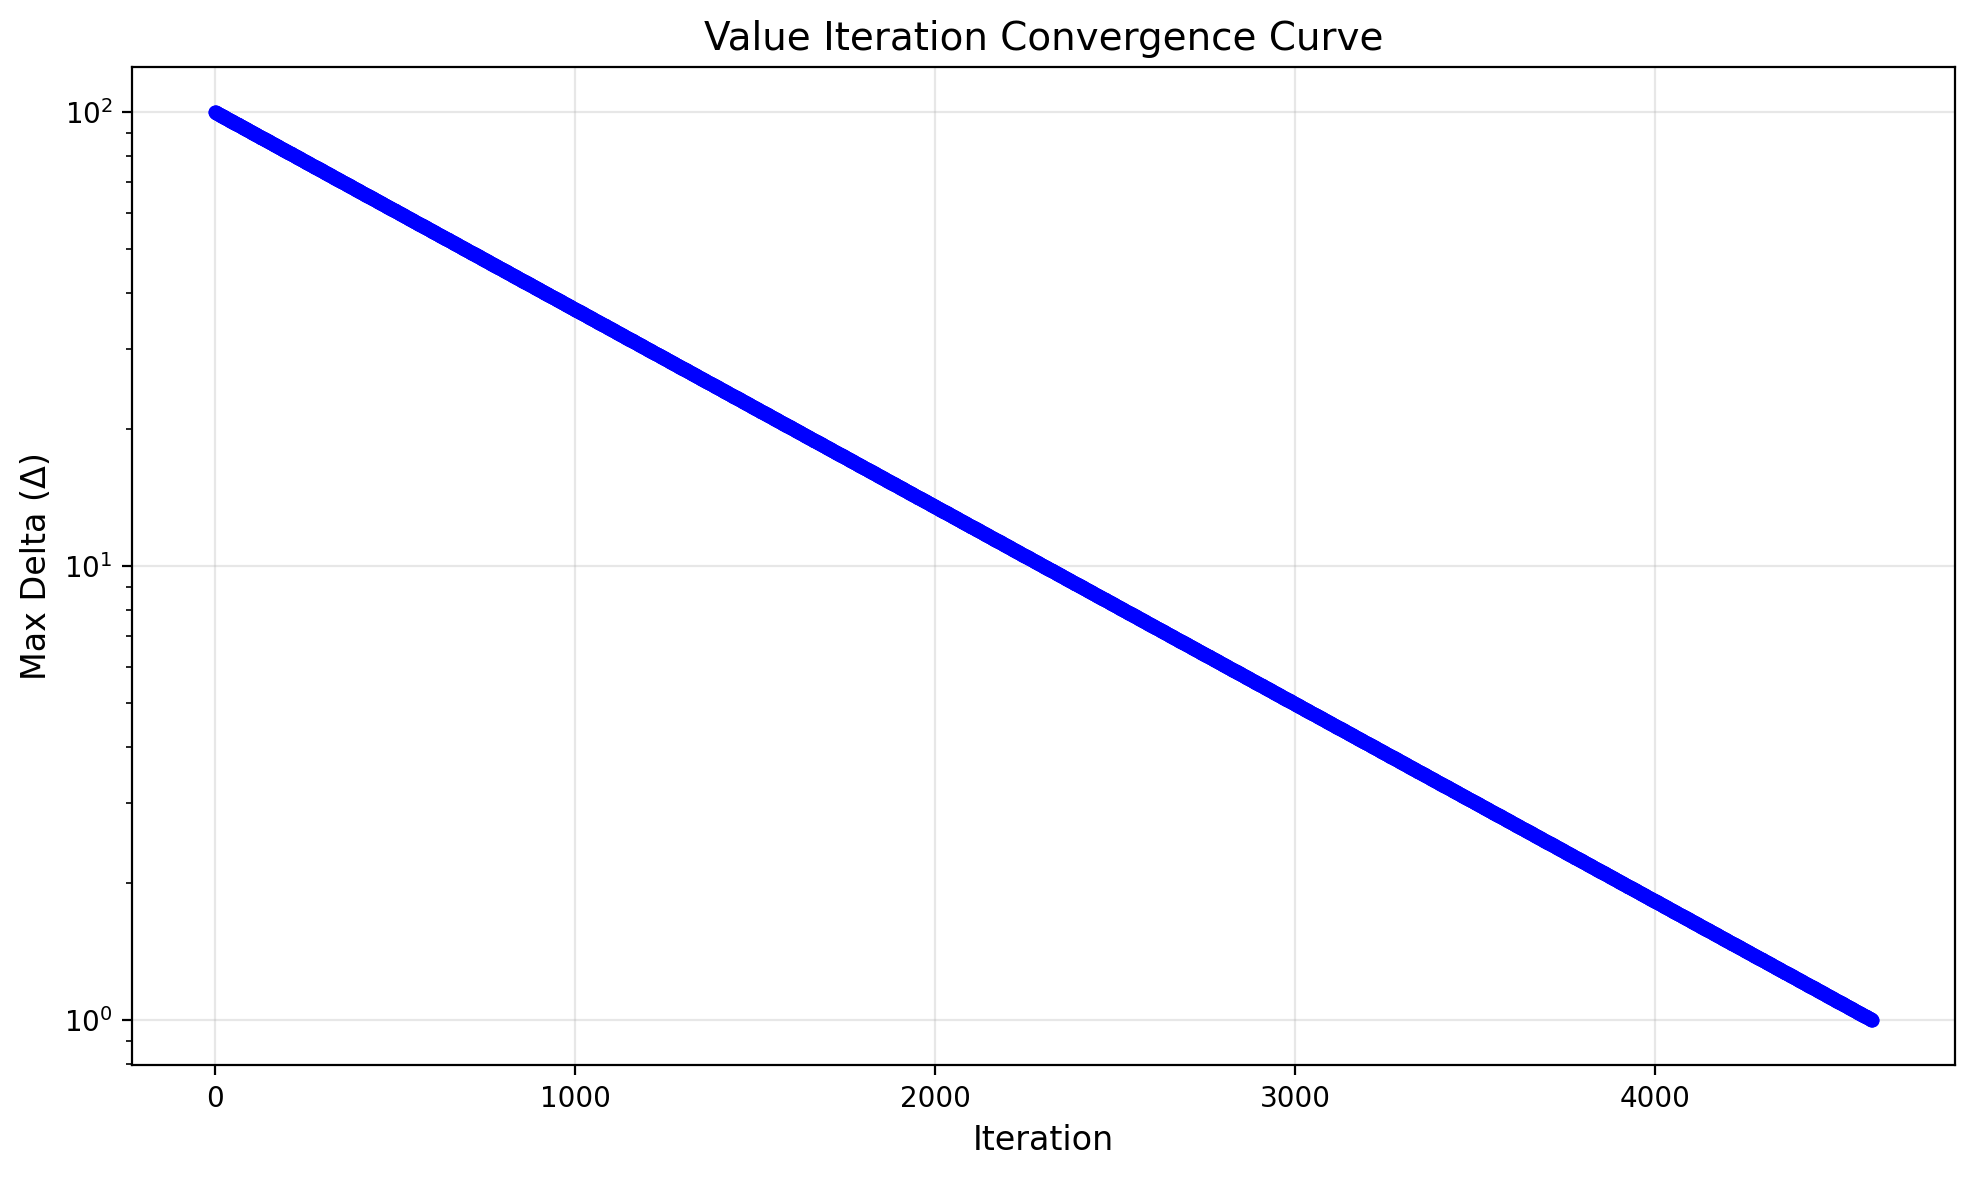
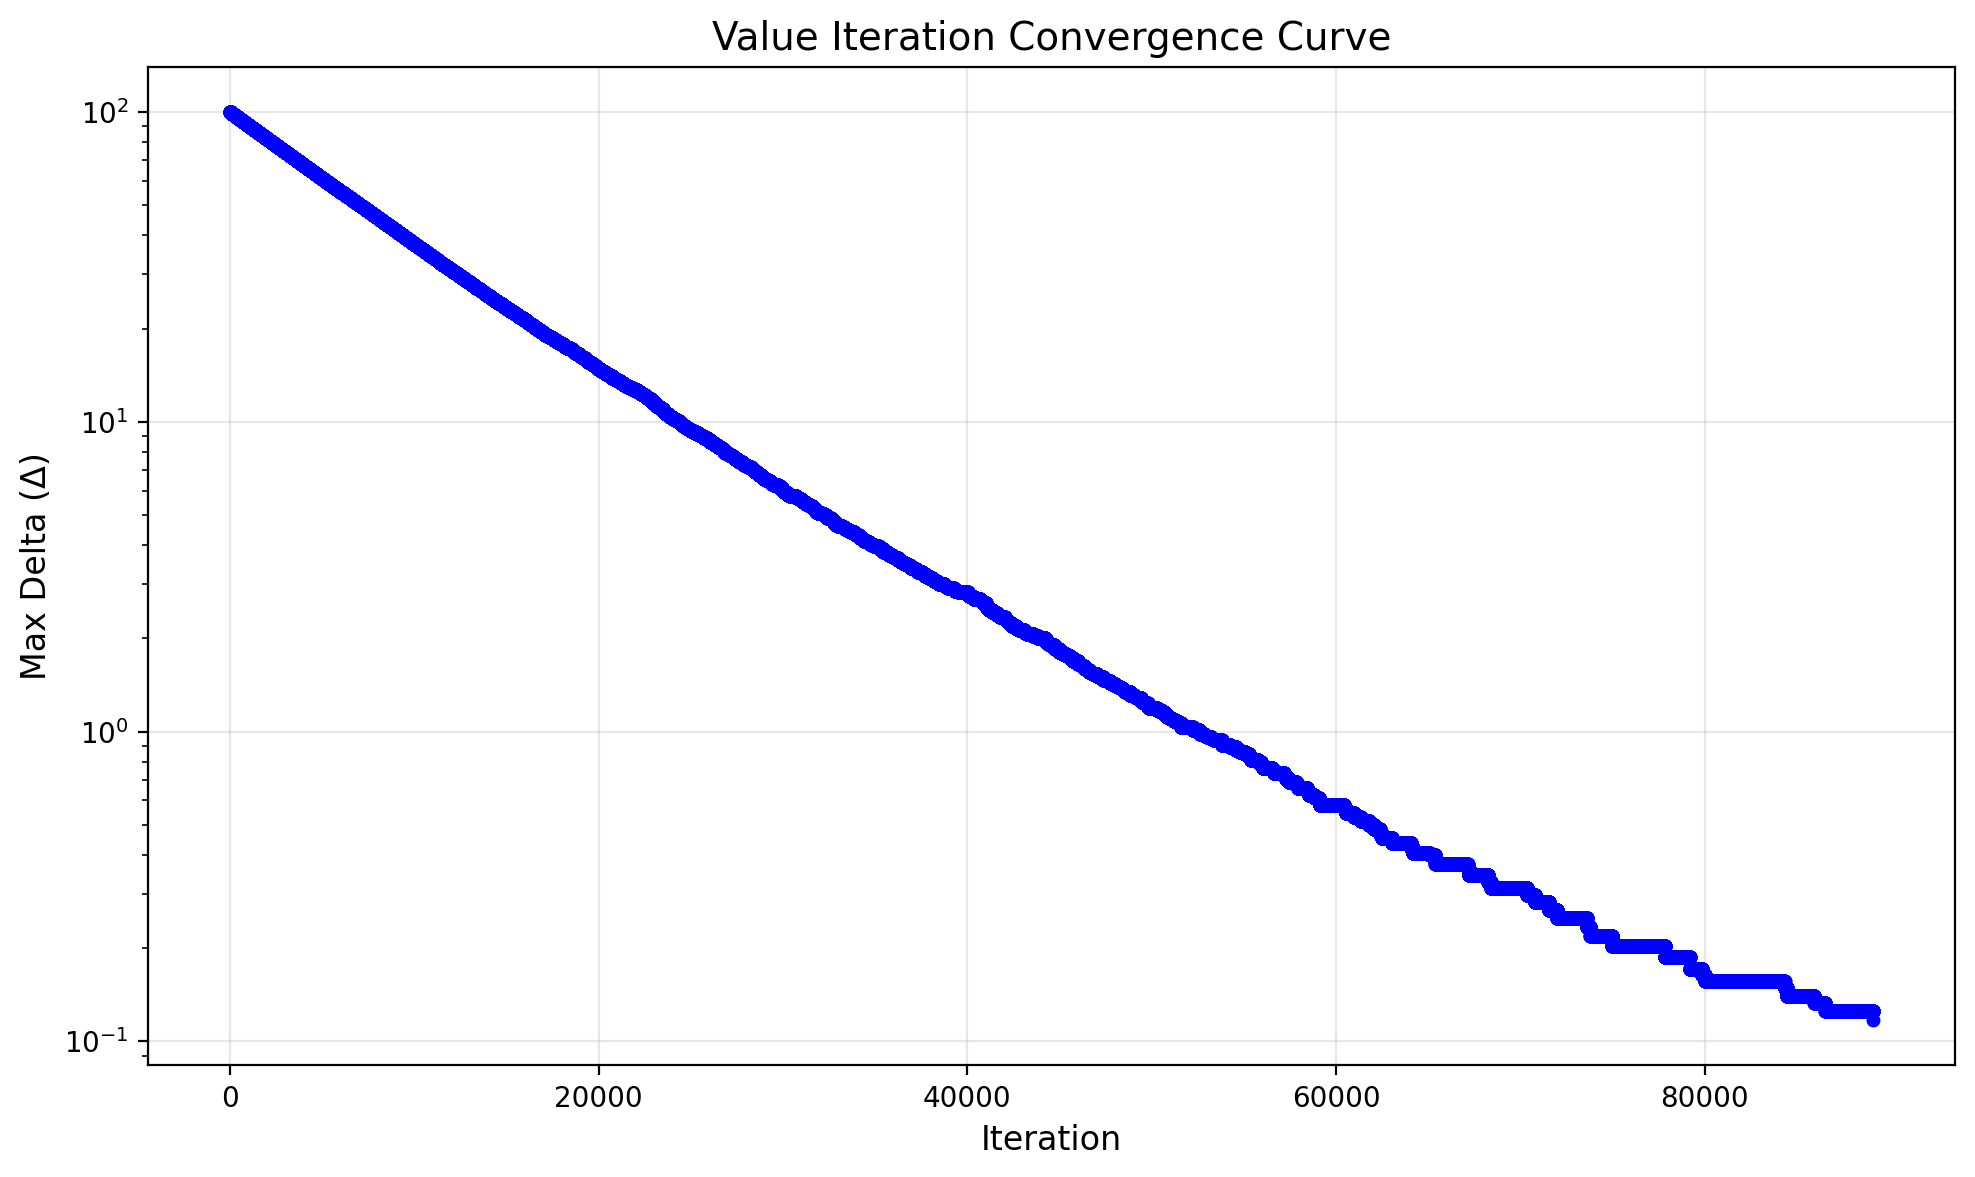
400x400 grid world maze

diff --git a/01-value-evaluation/02-gpu_value_iteration.py b/01-value-evaluation/02-gpu_value_iteration.py
@@ -52,8 +52,8 @@ matplotlib.use('Agg')  # 👈 必须在 import pyplot 之前！
 import matplotlib.pyplot as plt
 
 # --- 参数 ---
-N = 100  # Grid 大小 N×N
-gamma = 0.999
+N = 400  # Grid 大小 N×N
+gamma = 1.0 - 2.0 / 10000.0  # 折扣因子
 theta = 1.0
 actions = [0, 1, 2, 3]  # up, right, down, left
 action_names = {0: '^', 1: '>', 2: 'v', 3: '<'}
@@ -270,4 +270,4 @@ def plot_maze_with_policy(policy, maze, N, save_path='maze_with_policy.png'):
     print(f"✅ 迷宫和策略图已保存为: {save_path}")
 
 # 调用函数
-plot_maze_with_policy(policy, maze, N)  # 请确保这里的N, policy, maze是之前定义好的变量
+# plot_maze_with_policy(policy, maze, N)  # 请确保这里的N, policy, maze是之前定义好的变量

diff --git a/01-value-evaluation/01-policy-value-iteration.py b/01-value-evaluation/01-policy-value-iteration.py
@@ -4,7 +4,7 @@ matplotlib.use('Agg')  # 👈 必须在 import pyplot 之前！
 import matplotlib.pyplot as plt
 
 # --- 参数 ---
-N = 100  # Grid 大小 N×N
+N = 200  # Grid 大小 N×N
 gamma = 0.999
 theta = 1.0
 actions = [0, 1, 2, 3]  # up, right, down, left
